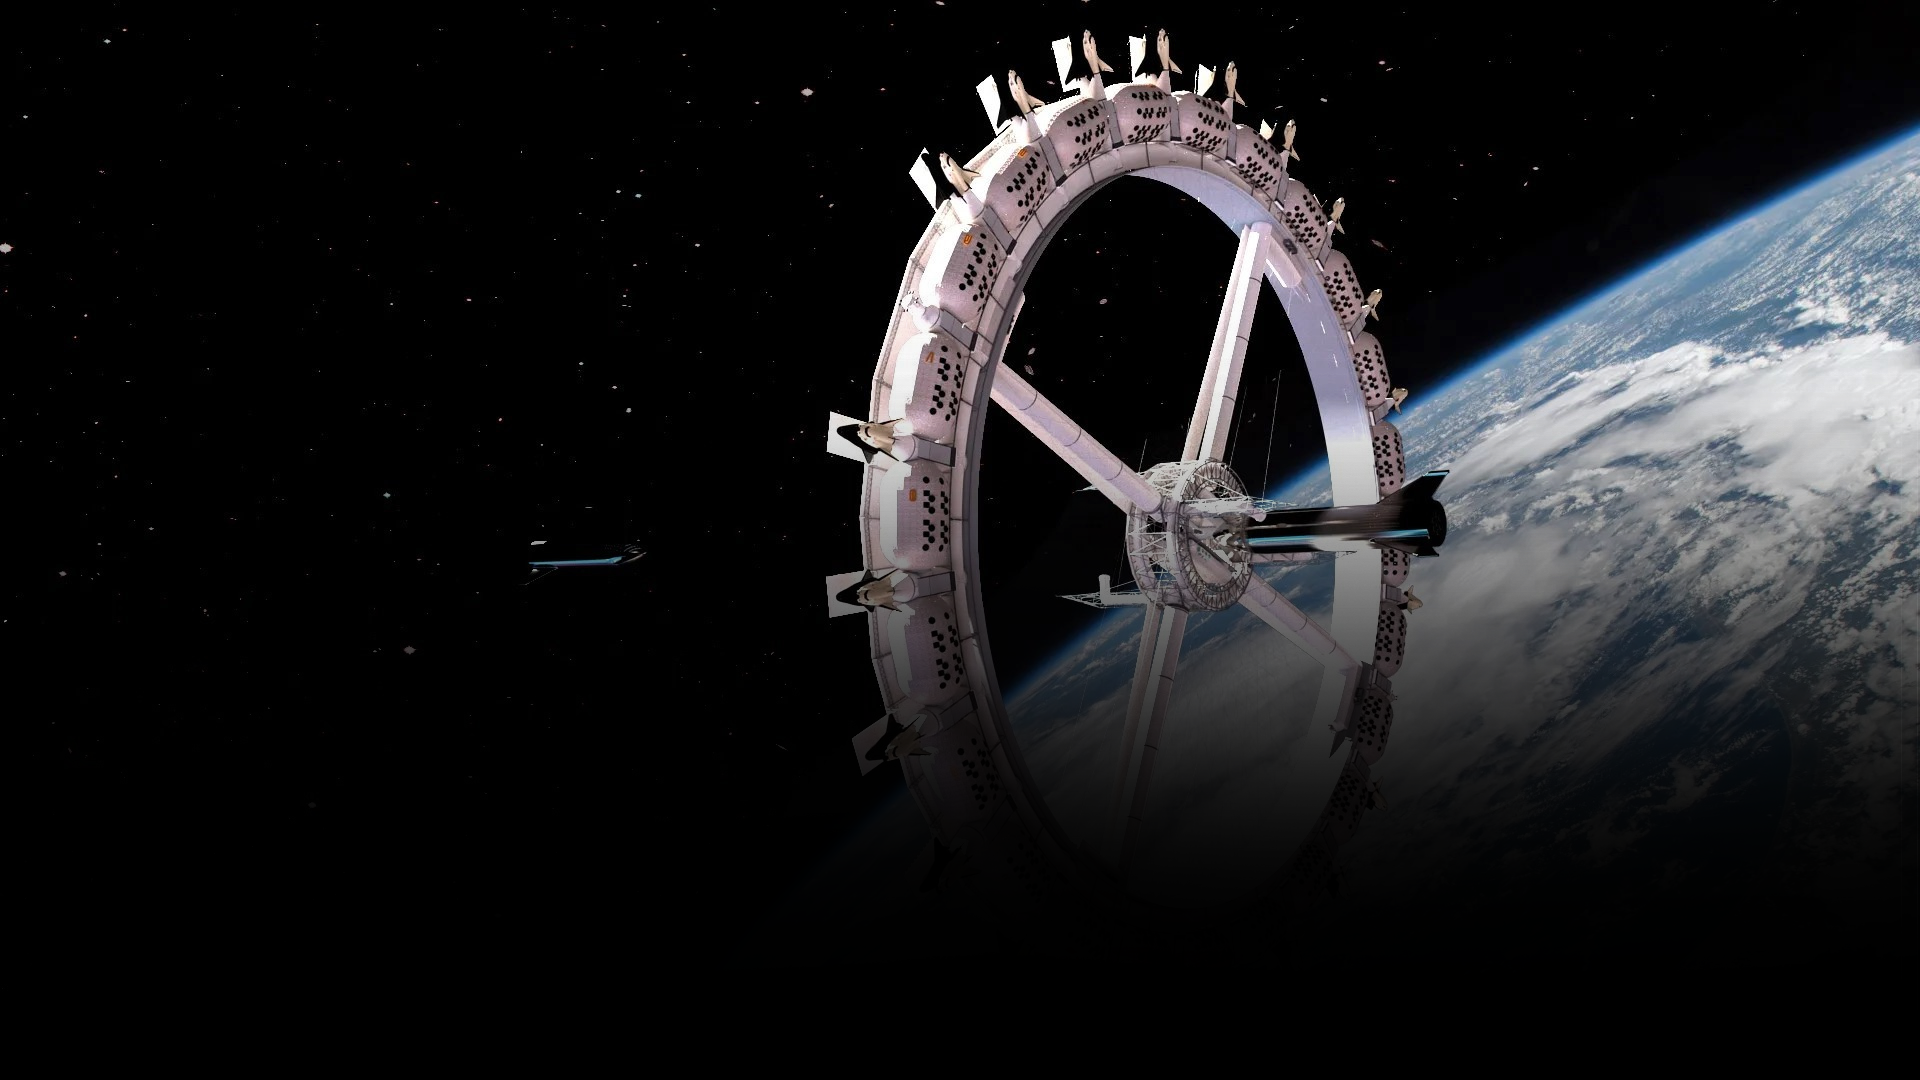
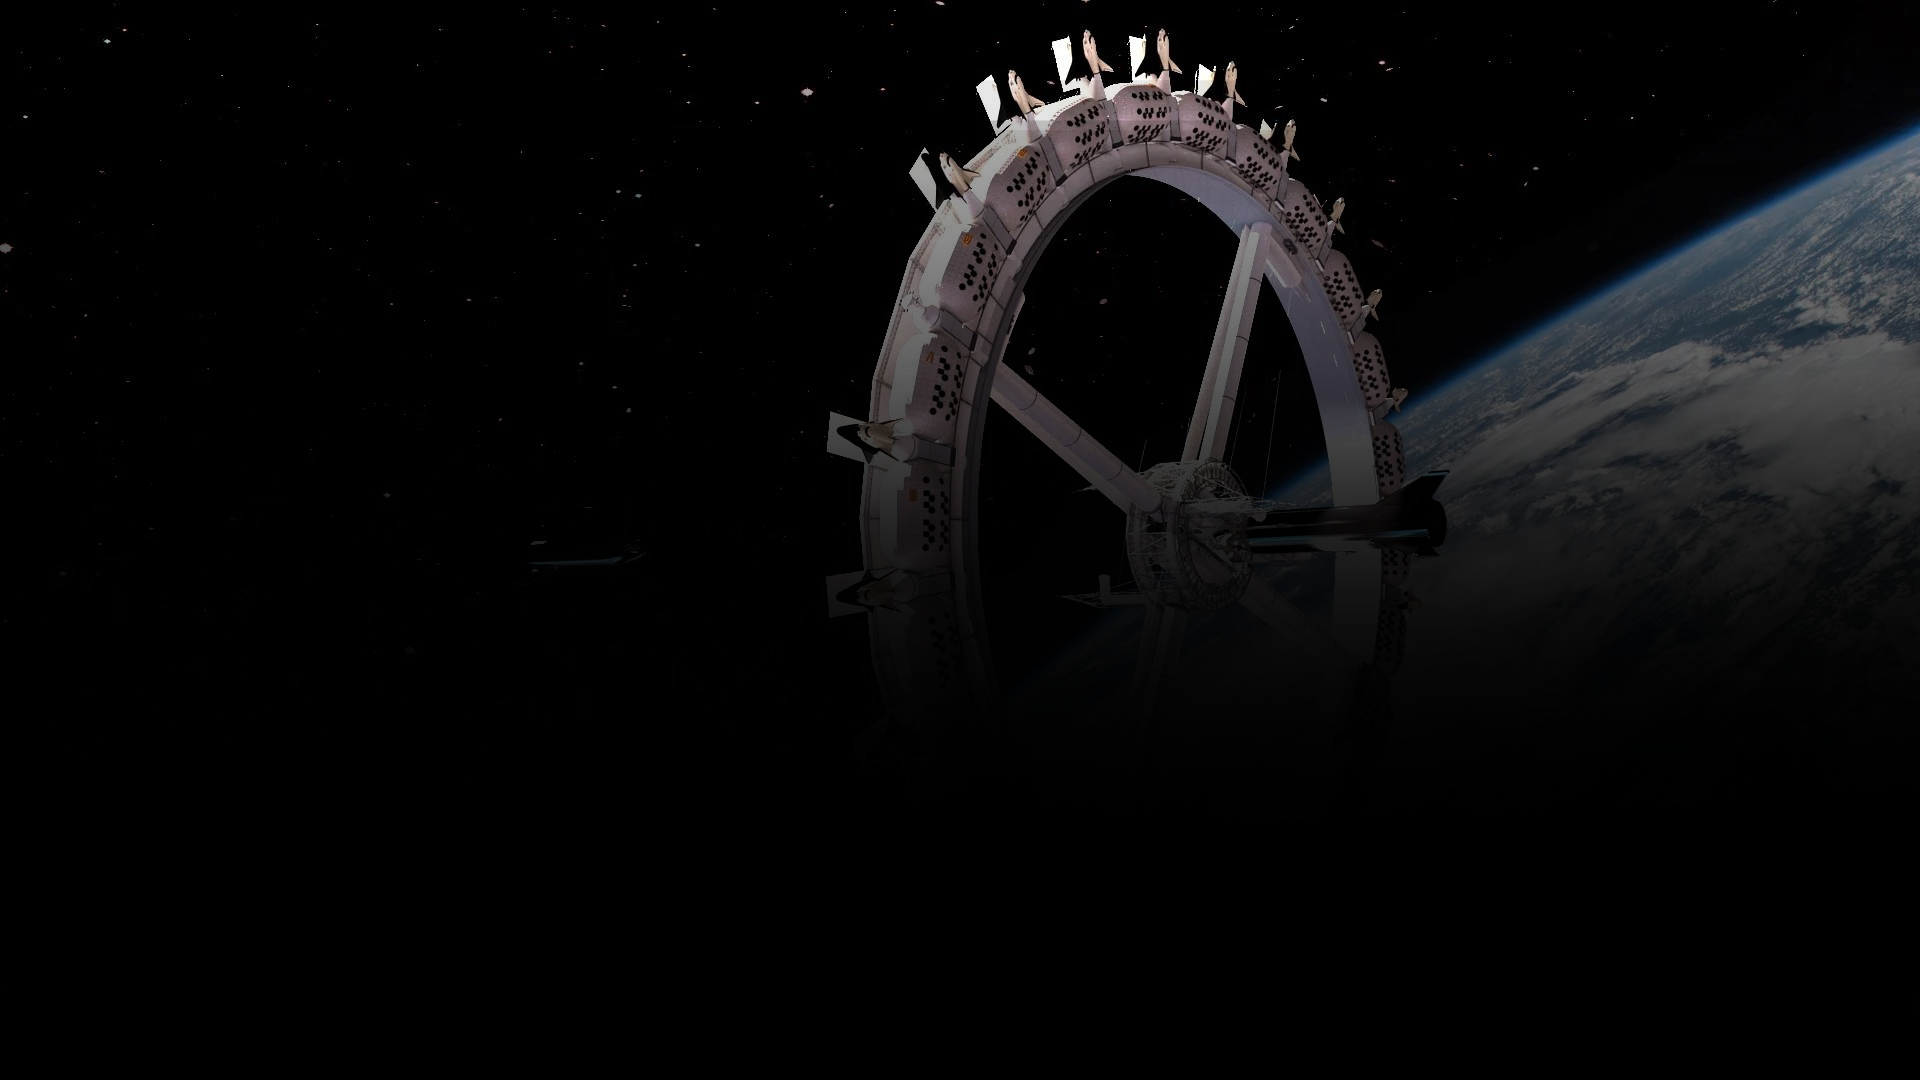
mudando o layout

Changed region(s): [[0.4062, 0.0917, 1.0, 0.7333], [0.2812, 0.5194, 0.3125, 0.55]]

diff --git a/src/pages/index.tsx b/src/pages/index.tsx
@@ -1,15 +1,10 @@
 import Head from 'next/head'
 import Image from 'next/image'
 import img_banner from '../../public/bg_home.png'
-import img_orbit_planet from '../../public/orbit_planet.png'
 import { KoulenFont } from '../lib/fonts'
 import { InterFont } from '../lib/fonts'
 import { CalendarForm } from '~/components/CalendarUi'
 import { useState, useEffect } from 'react'
-import CardImageDescription from '../components/CardImageDescription'
-import stars_img from '../../public/5_stars.png'
-import gravitation from '../../public/gravitation_img.png'
-import astronaut from '../../public/astronaut_img.png'
 import CountUp from 'react-countup'
 import { CounterFont } from '../lib/fonts'
 import Faq from '~/components/Faq'
@@ -46,8 +41,8 @@ export default function Home() {
                 <link rel="icon" href="/icon.png" />
             </Head>
             <div className="h-[75vh]">
-                <section className="relative h-[43vh]">
-                    <div className="absolute z-[-1] h-[75vh] w-screen max-w-full max-[425px]:h-[93svh]">
+                <section className="relative h-screen">
+                    <div className="absolute z-[-1] h-screen w-screen max-w-full max-[425px]:h-[93svh]">
                         <Image
                             alt="img_rocket"
                             src={img_banner}
@@ -60,8 +55,6 @@ export default function Home() {
                                     : 'none',
                             }}
                         />
-                        <div className="absolute -bottom-[3.13rem] left-0 h-0 w-0 border-b-[50px] border-l-[75px] border-t-[50px] border-b-transparent border-l-black border-t-transparent"></div>
-                        <div className="absolute -bottom-[3.13rem] right-0 border-b-[50px] border-r-[75px] border-t-[50px] border-b-transparent border-r-black border-t-transparent"></div>
                     </div>
                     <div className="ml-20 pt-32 max-[599px]:ml-0 max-[599px]:flex max-[599px]:flex-col max-[599px]:items-center">
                         <div className={KoulenFont.className}>
@@ -80,64 +73,11 @@ export default function Home() {
                             </p>
                         </div>
                     </div>
-                    <div className="transforms absolute -bottom-full left-1/2 -translate-x-1/2 max-[690px]:hidden">
-                        <div className="mx-auto flex max-w-full gap-x-28 max-[1170px]:gap-x-16 max-[948px]:gap-x-11 max-[815px]:gap-6">
-                            <CardImageDescription
-                                src={img_orbit_planet}
-                                alt="img_orbit_planet"
-                                text="Uma estadia segura em orbita"
-                            />
-                            <CardImageDescription
-                                src={stars_img}
-                                alt="stars"
-                                text="Restaurantes incríveis"
-                            />
-                            <CardImageDescription
-                                src={gravitation}
-                                alt="img_gravitation"
-                                text="Gravidade artificial"
-                            />
-                            <CardImageDescription
-                                src={astronaut}
-                                alt="img_astronaut"
-                                text="Sala de gravidade 0"
-                            />
-                        </div>
-                    </div>
                 </section>
             </div>
             <div className="h-screen">
-                <div className="mx-auto mt-20 flex max-w-full flex-wrap justify-center gap-5 max-[425px]:mt-48 min-[690px]:hidden">
-                    <CardImageDescription
-                        src={img_orbit_planet}
-                        alt="img_orbit_planet"
-                        text="Uma estadia segura em orbita"
-                    />
-                    <CardImageDescription
-                        src={stars_img}
-                        alt="stars"
-                        text="Restaurantes incríveis"
-                    />
-                    <CardImageDescription
-                        src={gravitation}
-                        alt="img_gravitation"
-                        text="Gravidade artificial"
-                    />
-                    <CardImageDescription
-                        src={astronaut}
-                        alt="img_astronaut"
-                        text="Sala de gravidade 0"
-                    />
-                </div>
-                <div className="relative flex items-end justify-center overflow-hidden pt-40 max-[690px]:pt-20">
-                    <div className="absolute left-[98.5%] top-5 h-32 border-[15px] border-black max-[690px]:hidden"></div>
-                    <div className="absolute right-[98.5%] top-5 h-32 border-[15px] border-black max-[690px]:hidden"></div>
-
-                    <div className="relative w-full  bg-gradient-to-t from-gray-500 via-gray-800 to-black">
-                        <div className="absolute -top-[3.12rem] left-0 h-0 w-0 border-b-[50px] border-l-[75px] border-t-[50px] border-b-transparent border-l-[#010203] border-t-transparent"></div>
-                        <div className="absolute -bottom-[3.13rem] left-0 h-0 w-0 border-b-[50px] border-l-[75px] border-t-[50px] border-b-transparent border-l-white border-t-transparent"></div>
-                        <div className="absolute -top-[3.12rem] right-0 border-b-[50px] border-r-[75px] border-t-[50px] border-b-transparent border-r-[#010203] border-t-transparent"></div>
-                        <div className="absolute -bottom-[3.13rem] right-0 border-b-[50px] border-r-[75px] border-t-[50px] border-b-transparent border-r-white border-t-transparent"></div>
+                <div className=" flex items-end justify-center overflow-hidden pt-24">
+                    <div className=" w-full bg-gradient-to-t from-transparent via-gray-600 to-black">
                         <div className=" mx-auto max-w-4xl space-y-8 rounded-[8px] px-6 py-16 text-white">
                             <div>
                                 <h2 className="text-2xl font-bold">
@@ -169,11 +109,11 @@ export default function Home() {
                                     terminam.
                                 </p>
                             </div>
-                            <div>
+                            <div className="text-gray-900">
                                 <h2 className="text-2xl font-bold">
                                     Luxo Além das Estrelas
                                 </h2>
-                                <p className="mt-2 font-bold text-white">
+                                <p className="mt-2 font-bold">
                                     Nossos hotéis é uma fusão de sofisticação e
                                     conforto, projetado para atender às suas
                                     necessidades mais exigentes. De suítes
@@ -183,11 +123,11 @@ export default function Home() {
                                     experiência de classe mundial.
                                 </p>
                             </div>
-                            <div>
+                            <div className=" text-gray-900">
                                 <h2 className="text-2xl font-bold">
                                     Gastronomia Celestial
                                 </h2>
-                                <p className="mt-2 font-bold text-white">
+                                <p className="mt-2 font-bold">
                                     Nossos restaurantes oferecem uma culinária
                                     celestial que combina o melhor da
                                     gastronomia terrestre com toques de inovação
